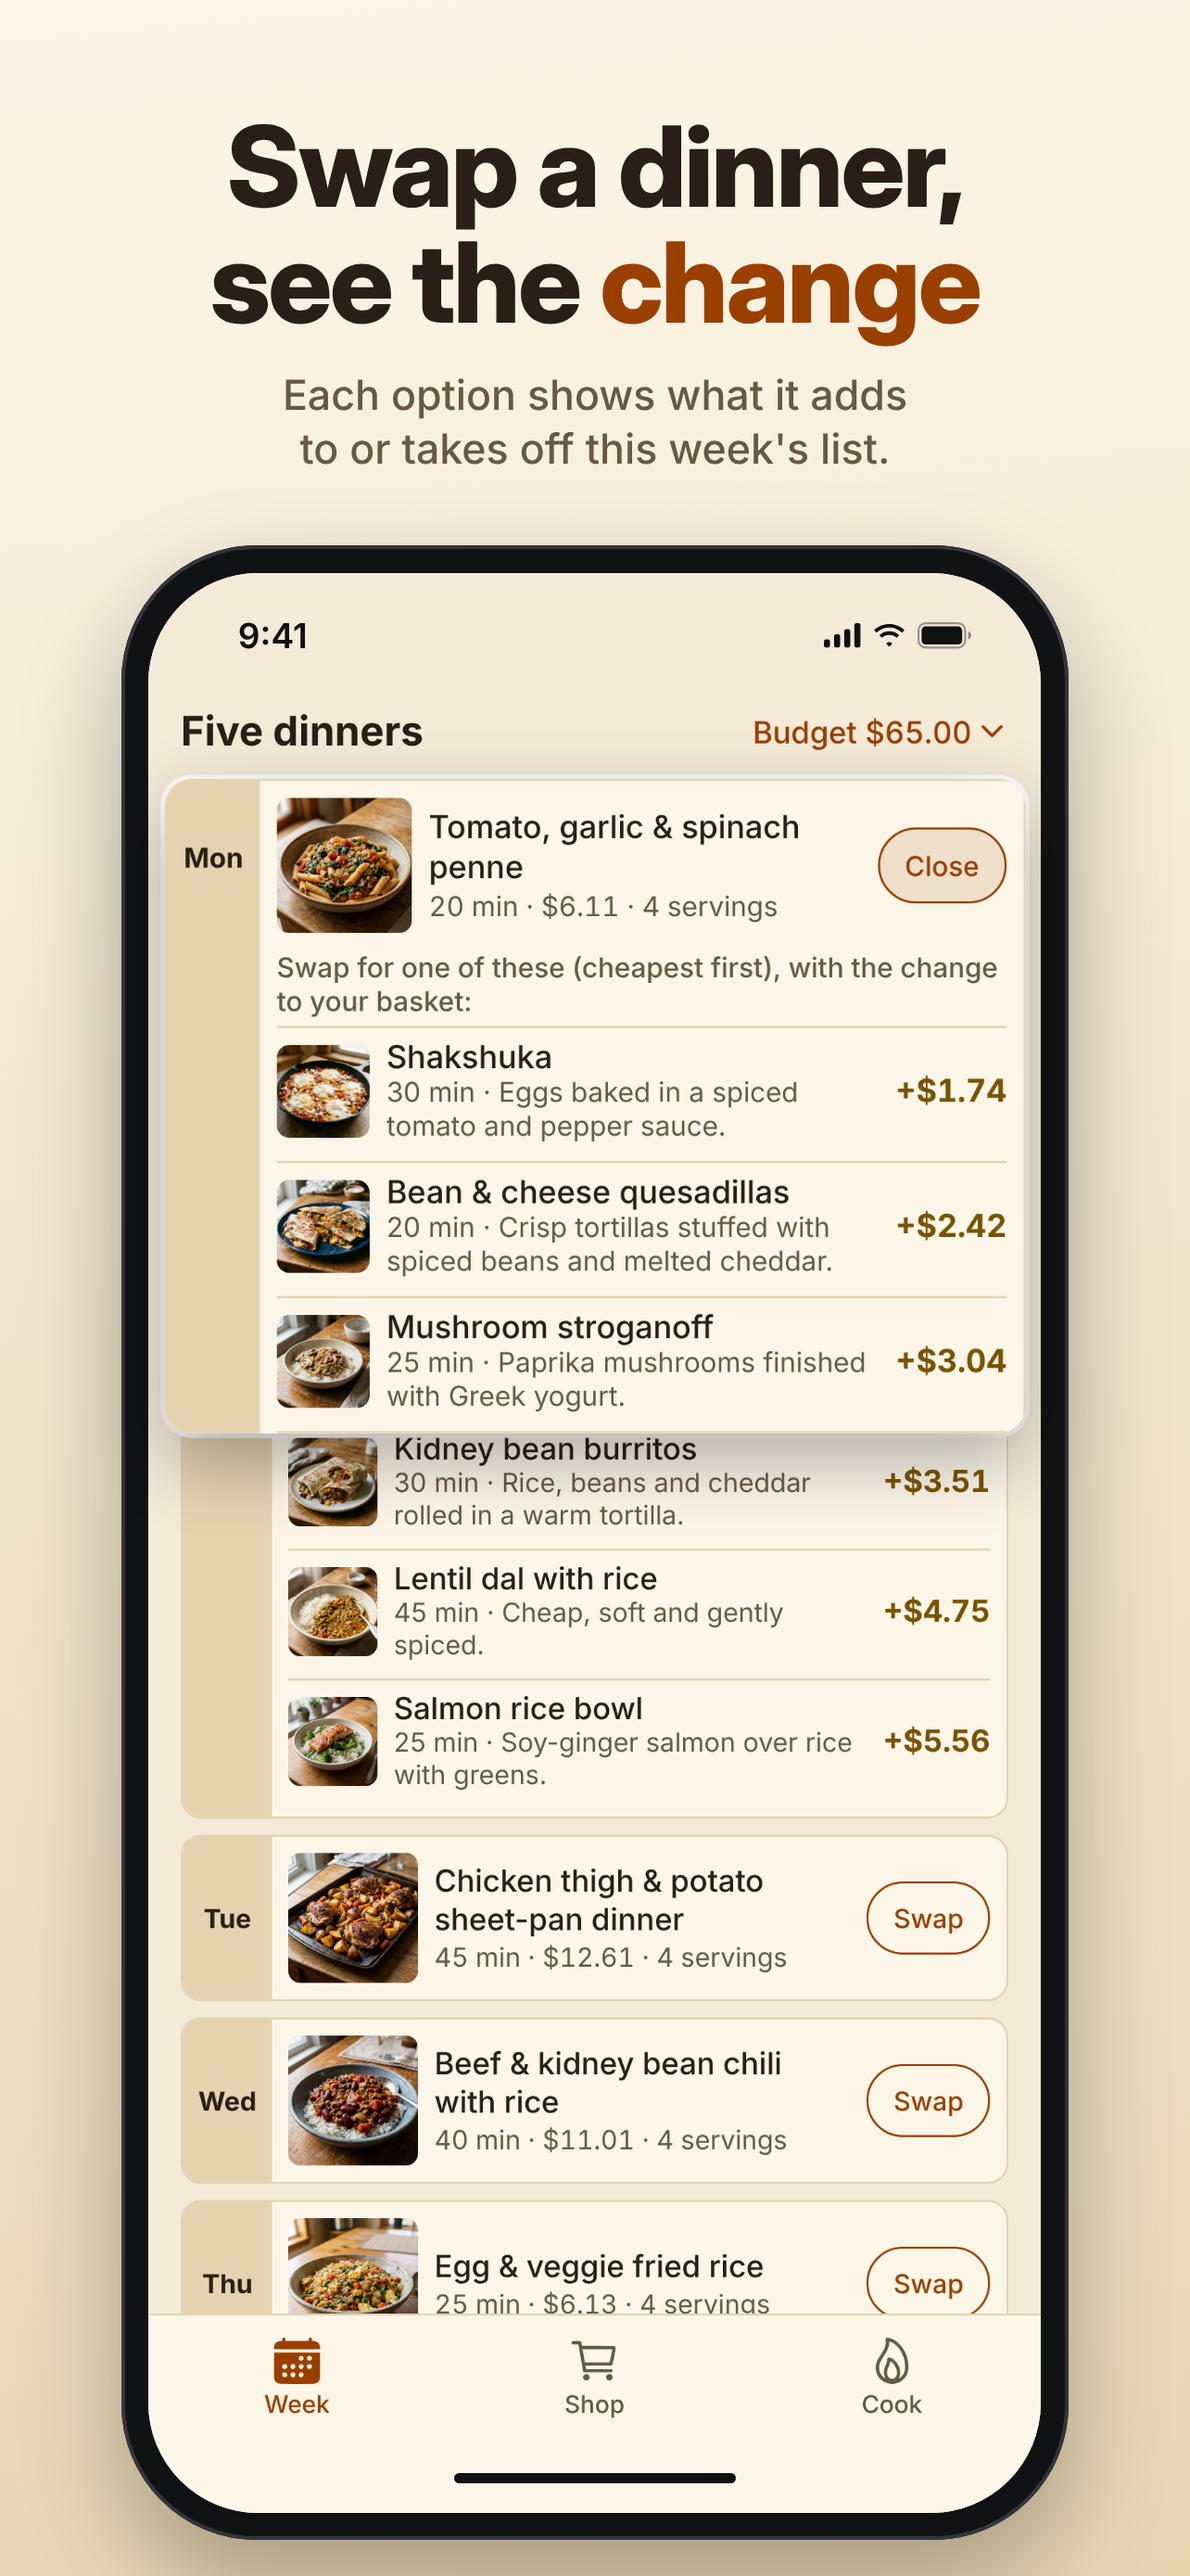
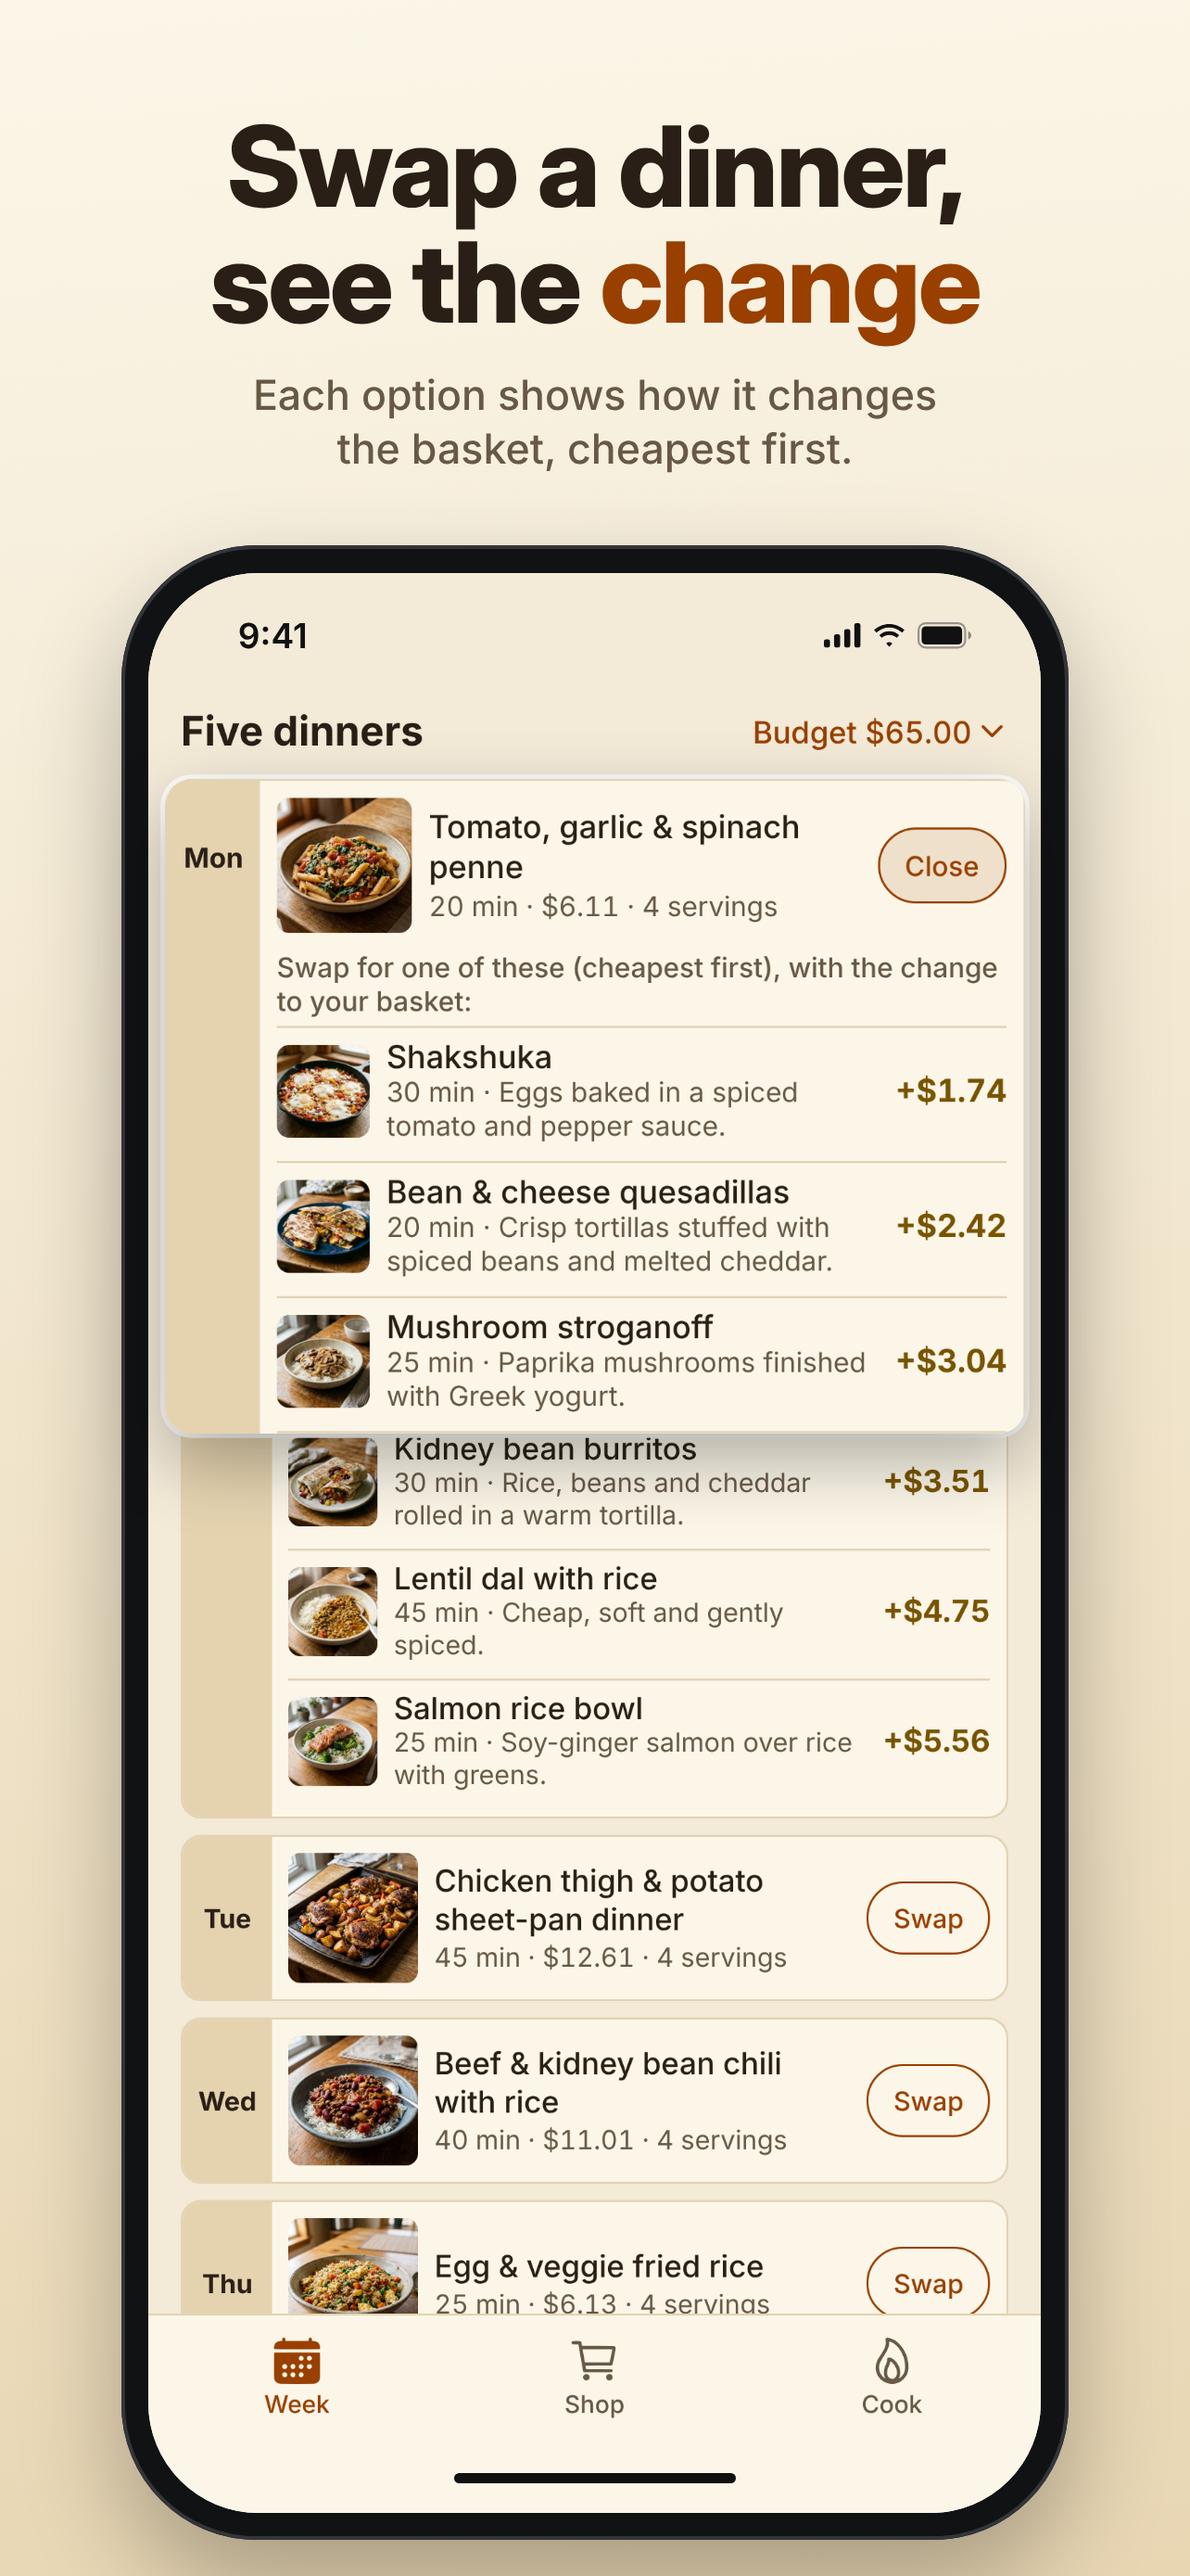
Five Dinners: store screenshots retaken from the free build
All eight shots recaptured with the paywall off: no Unlimited labels,
padlocks or prices. The capture script no longer buys a test purchase
and stops if a paywall appears; two lines under headlines now match
what the shots show.

Claude-Session: https://claude.ai/code/session_01A2CEMUiXKrevCbf7e9uRYf

Changed region(s): [[0.2181, 0.1238, 0.7477, 0.1857]]

diff --git a/five-dinners/store/screenshots/README.md b/five-dinners/store/screenshots/README.md
@@ -5,24 +5,21 @@ Eight iPhone screenshots, in upload order, at both sizes App Store Connect asks 
 - `6.9/`: 1320 × 2868 (the "iPhone 6.9-inch" slot)
 - `6.5/`: 1284 × 2778 (the "iPhone 6.5-inch" slot)
 
-| # | File | Headline | Line under it | Screen | Paid |
-|---|---|---|---|---|---|
-| 1 | `01-five-dinners-for-your-household` | Five dinners for / your **household** | Say who's eating, your budget and what you skip. The week comes back planned. | Week, Nov 15–21, "for 4": the basket card over the five dinners, Monday's and Tuesday's rows (picture, cost, 4 servings) zoomed | |
-| 2 | `02-one-list-in-whole-packs` | One list, in / **whole packs** | Every pack as it sits on the shelf, with what the week uses and what's left over. | Shop at the store: 7 of 15 ticked, Produce done, the onions row zoomed ("Buy 1 × 3 lb bag, about 8 · uses 10 onions · 8 onions from cupboard · 6 onions left") | |
-| 3 | `03-next-week-starts-with-whats-left` | Next week starts / with **what's left** | Leftover chicken and eggs go in first. | Week 2, Nov 22–28: "Carried over" and dinners marked "Uses 11.6 oz leftover chicken thighs", "Uses 8 eggs leftover large eggs", "Uses 2 tortillas leftover flour tortillas" (zoomed) | Unlimited |
-| 4 | `04-know-whats-left-in-every-pack` | Know what's left / in every **pack** | Mark a dinner cooked and each pack goes down by what it used. | Cook on Wednesday evening: Mon–Wed cooked, Monday's card with its picture strip and "What's left" bars (penne, diced tomatoes, spinach) zoomed | |
-| 5 | `05-swap-a-dinner` | Swap a dinner, / see the **change** | Each option shows what it adds to or takes off this week's list. | Week 1 with Monday's swap options open: two starter recipes with thumbnails and their change to the list (the whole card zoomed) | |
-| 6 | `06-every-recipe-scaled-for-four` | Every recipe / scaled for **four** | Change who's eating and every amount and pack on your list follows. | Wednesday's chili: the picture (captioned "Illustration"), then title, "For 4" and "Scaled for 4 · Changing it updates your list and prices" zoomed | |
-| 7 | `07-leave-out-what-you-dont-eat` | Leave out what / you **don't eat** | No pork, no fish, no nuts: every plan and every swap skips them. | Onboarding's "Anything you don't eat?" step with No pork picked (chips zoomed) | |
-| 8 | `08-what-you-paid-shop-by-shop` | What you paid, / **shop by shop** | Shelf prices against the estimate. | Shop, week 2: Price history open, prices logged on Nov 15 and Nov 22 against the estimate (zoomed) | Unlimited |
+| # | File | Headline | Line under it | Screen |
+|---|---|---|---|---|
+| 1 | `01-five-dinners-for-your-household` | Five dinners for / your **household** | Say who's eating, your budget and what you skip. The week comes back planned. | Week, Nov 15–21, "for 4": the basket card ($42.74 of $65.00) over the five dinners, Monday's and Tuesday's rows (picture, cost, 4 servings) zoomed |
+| 2 | `02-one-list-in-whole-packs` | One list, in / **whole packs** | Every pack as it sits on the shelf, with what the week uses and what's left over. | Shop at the store: 6 of 13 ticked, Produce done, the onions row zoomed ("Buy 1 × 3 lb bag, about 8 · uses 10 onions · 8 onions from cupboard · 6 onions left") |
+| 3 | `03-next-week-starts-with-whats-left` | Next week starts / with **what's left** | Leftover potatoes, penne and peas go in first. | Week 2, Nov 22–28: "Carried over" and Monday to Wednesday marked "Uses 2.5 lb leftover russet potatoes", "Uses 8 oz leftover penne", "Uses 6.7 oz leftover frozen peas" (zoomed) |
+| 4 | `04-know-whats-left-in-every-pack` | Know what's left / in every **pack** | Mark a dinner cooked and each pack goes down by what it used. | Cook on Wednesday evening: Mon–Wed cooked, Monday's card with its picture strip and "What's left" bars (penne, diced tomatoes, spinach) zoomed |
+| 5 | `05-swap-a-dinner` | Swap a dinner, / see the **change** | Each option shows how it changes the basket, cheapest first. | Week 1 with Monday's swap options open: six recipes with thumbnails and their change to the basket, cheapest first (Monday's row and the first three options zoomed) |
+| 6 | `06-every-recipe-scaled-for-four` | Every recipe / scaled for **four** | Change who's eating and every amount and pack on your list follows. | Wednesday's chili: the picture (captioned "Illustration"), then title, "For 4" and "Scaled for 4 · Changing it updates your list and prices" zoomed |
+| 7 | `07-leave-out-what-you-dont-eat` | Leave out what / you **don't eat** | No pork, no fish, no nuts: every plan and every swap skips them. | Onboarding's "Anything you don't eat?" step with No pork picked (chips zoomed) |
+| 8 | `08-what-you-paid-shop-by-shop` | What you paid, / **shop by shop** | Shelf prices against the estimate. | Shop, week 2: Price history open, prices logged on Nov 15 and Nov 22 against the estimate (zoomed) |
 
 The first three carry what makes Five Dinners different: five dinners sized to the household,
-one list in whole packs, and next week planned around what's left of them. The two screens that
-show paid features (a week after the free one, planned around leftovers; price history) carry an
-"Unlimited" pill, after the purchase's name on the paywall ("Unlimited weekly plans"). No other
-screenshot shows a paid feature. The app's own locked rows ("14 more tested recipes in the full
-library · Unlock", "Plan next week around what's left · Unlock", the padlocked "Keep for next
-week") appear on screens 5 and 6 as marked upsells, not as paid screens.
+one list in whole packs, and next week planned around what's left of them. Every screen is the
+app as everyone gets it: the launch build has no paywall (`PAYWALL_ENABLED = false` in
+`data/launch.ts`), so there is nothing locked, no badge and no purchase anywhere in the set.
 
 ## Recipe pictures: AI illustrations, not photos
 
@@ -49,19 +46,19 @@ added.
    [`capture.cjs`](capture.cjs) runs the app with Playwright's `page.clock` (America/Chicago):
    - **Sun Nov 15, 2026, 9:30.** Onboarding: 4 people, "$65 · Room for a treat", No pork,
      staples olive oil, rice, onions, garlic, cumin and paprika, reminders "Not now". The app
-     plans the free week; the paywall it opens on top is closed without buying.
+     plans the first week from all 25 recipes.
    - **11:10, at the store.** Produce and the two meats are ticked, and a few shelf prices are
-     typed in: chicken thighs $6.92, ground beef $7.21, carrots $2.19, bell peppers $2.99. The
-     rest is ticked after the capture.
+     typed in: chicken thighs $6.92, ground beef $7.21, carrots $2.19 (the script also has bell
+     peppers $2.99 ready, but this week's list has no peppers). The rest is ticked after the
+     capture.
    - **Mon to Fri, evenings.** One dinner cooked each day, most of them rated thumbs-up.
      Wednesday's chili is opened before it is cooked.
-   - **Sun Nov 22.** The free week has ended and its leftovers are in the cupboard. Unlimited
-     plans are bought with the paywall's test mode ("purchases are simulated, nothing is
-     charged"), and "Plan next week" builds week 2 around the leftovers. At the store three
-     more prices are logged: chicken thighs $6.57, bell peppers $2.89, salmon $10.15.
+   - **Sun Nov 22.** The first week has ended and its leftovers are in the cupboard. "Plan next
+     week" builds week 2 around them. At the store three more prices are logged: chicken thighs
+     $6.57, bell peppers $2.89, salmon $10.15.
 
    Every dinner, pack, amount, total, budget figure, leftover and date on screen is what the app
-   computed from those taps. The only typed numbers are the seven shelf prices above, which are
+   computed from those taps. The only typed numbers are the six shelf prices above, which are
    the demo shopper's input. Grocery prices are the app's own catalogue (aldi.us, ZIP 60601,
    checked Nov 15, 2026).
 2. **Capture.** The real web build runs in Chromium at the app area of a 6.9" iPhone (440 × 868
@@ -69,14 +66,15 @@ added.
    so the part that matters is in view. Raw captures are in `captures/`.
 3. **Compose.** [`spec.json`](spec.json) feeds `tools/store-screenshots/compose.cjs`, which adds:
    - the background in Larder's surface colors, with the headline accent in its terracotta
-     primary and the pill in its herb green;
+     primary;
    - our own plain phone frame (no Apple bezel);
    - a drawn status bar and home indicator;
    - one zoomed callout cut from the same capture.
 4. **Check.** `tools/store-screenshots/check_shots.py` passes for both folders: exact sizes,
    RGB with no alpha, 8 of at most 10 images.
 
-To retake (about two minutes), build the web app, then capture and compose from `five-dinners/`:
+To retake (about two minutes), build the web app with `PAYWALL_ENABLED = false` (the capture
+script stops if a paywall shows), then capture and compose from `five-dinners/`:
 
 ```bash
 CI=1 npx expo export -p web --output-dir <dir>
@@ -89,9 +87,9 @@ python3 ../tools/store-screenshots/package_upload.py store/screenshots <out.zip>
 
 The capture script serves the build on port 8137 and writes `crops.json`: the boxes of the parts
 the callouts zoom, and the rendered boxes of the recipe pictures (Week row, swap thumbnail,
-recipe hero, Cook card strip), for anyone recreating these screens. If the screens change, check the callout crops in `spec.json` (app points,
-440 × 868). A pill plus a two-line sub doesn't fit above the phone on the 6.5" size, so paid
-shots keep their sub to one line.
+recipe hero, Cook card strip), for anyone recreating these screens. If the screens change, check
+the callout crops in `spec.json` (app points, 440 × 868), and check that each line under a
+headline still describes what its screen shows.
 
 ## Rules checked
 
